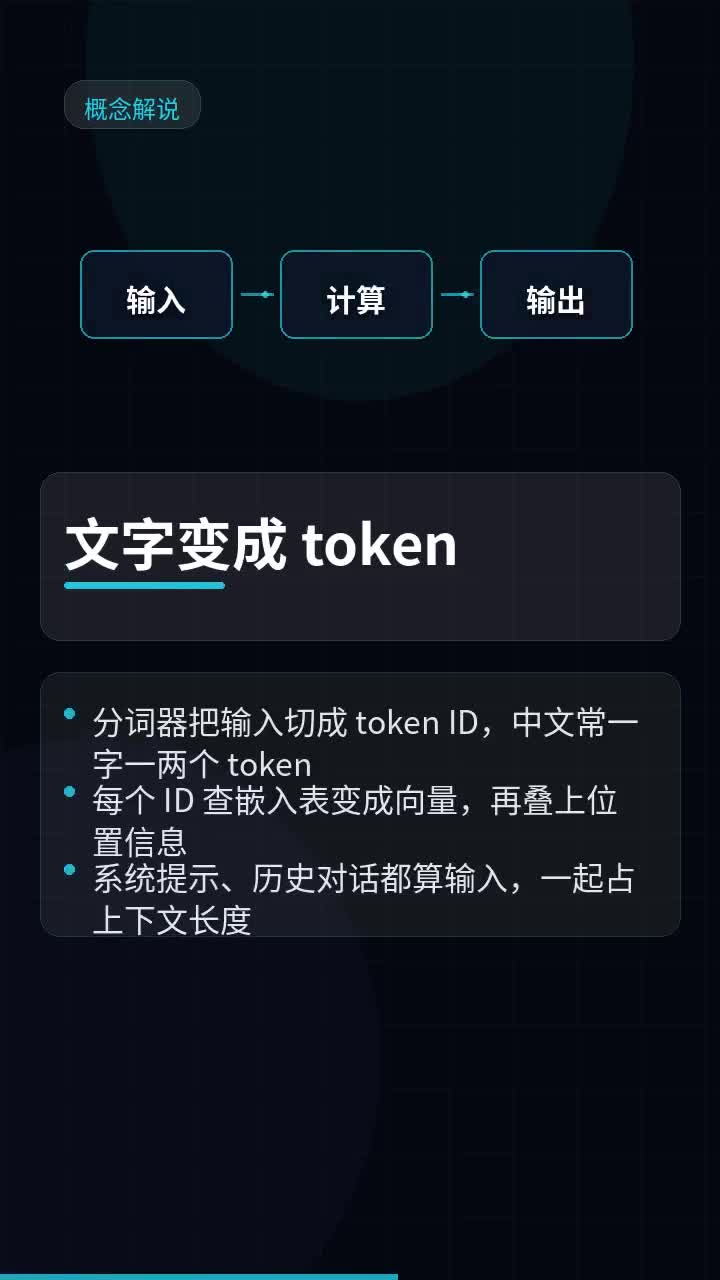
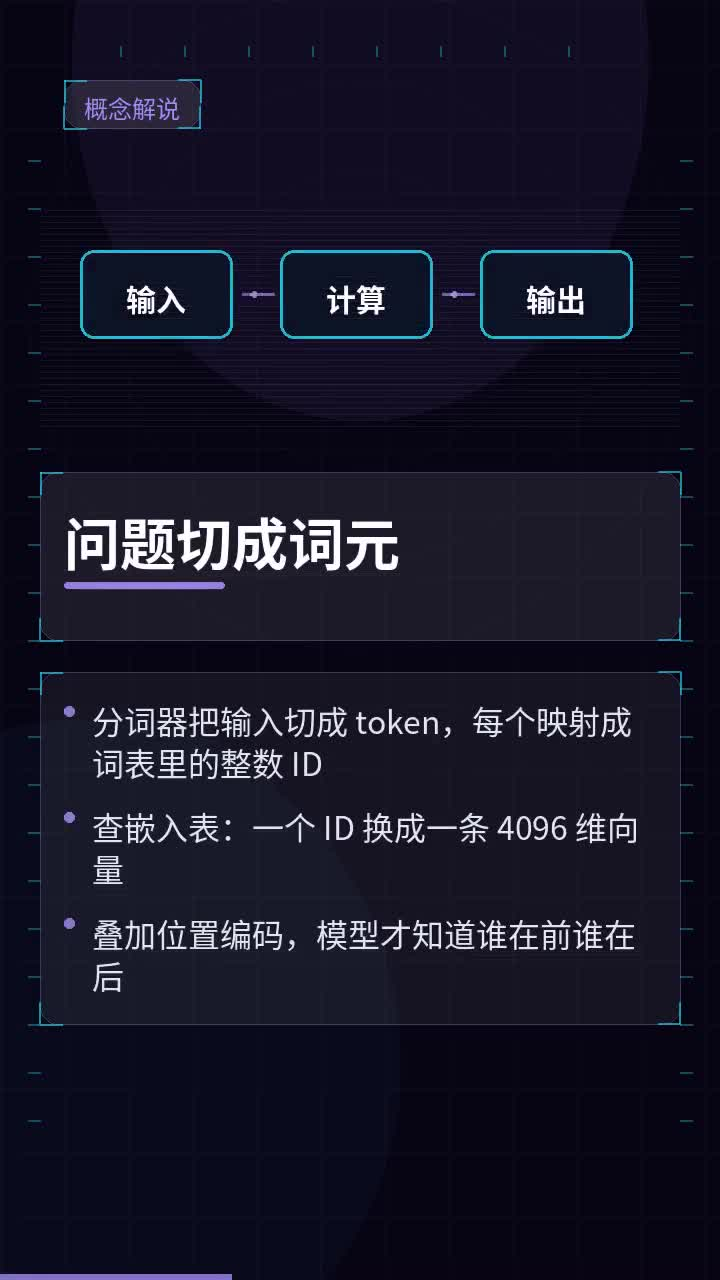
Violet tech palette, HUD frames and self-sizing bullet panels
This is by an automated agent, not a human.

Violet primary with cyan accents, corner brackets, HUD ticks, scanlines
and concentric rings; bullet panels size to wrapped text; TTS retries.

diff --git a/projects/motion-mvp/graph_scene.py b/projects/motion-mvp/graph_scene.py
@@ -16,7 +16,8 @@ MARGIN = 64
 GRID = 8
 FONT_BOLD = '/usr/share/fonts/opentype/noto/NotoSansCJK-Bold.ttc'
 FONT_REG = '/usr/share/fonts/opentype/noto/NotoSansCJK-Regular.ttc'
-ACCENT = (34, 211, 238)
+ACCENT = (167, 139, 250)   # violet
+ACCENT2 = (34, 211, 238)  # cyan
 
 
 def font(path, size):
@@ -32,20 +33,45 @@ def snap(value):
     return int(round(value / GRID) * GRID)
 
 
+def corner_brackets(draw, box, color, alpha=200, size=26, width=2):
+    x0, y0, x1, y1 = box
+    for (cx, cy, dx, dy) in ((x0, y0, 1, 1), (x1, y0, -1, 1), (x0, y1, 1, -1), (x1, y1, -1, -1)):
+        draw.line([(cx, cy), (cx + dx * size, cy)], fill=color + (alpha,), width=width)
+        draw.line([(cx, cy), (cx, cy + dy * size)], fill=color + (alpha,), width=width)
+
+
+def hud_ticks(draw, color, alpha=90):
+    for y in range(160, H - 120, 48):
+        draw.line([(28, y), (40, y)], fill=color + (alpha,), width=2)
+        draw.line([(W - 40, y), (W - 28, y)], fill=color + (alpha,), width=2)
+    for x in range(120, W - 100, 64):
+        draw.line([(x, 46), (x, 56)], fill=color + (alpha,), width=2)
+
+
+def scanlines(draw, top, bottom, alpha=14):
+    for y in range(top, bottom, 6):
+        draw.line([(MARGIN - 24, y), (W - MARGIN + 24, y)], fill=(255, 255, 255, alpha), width=1)
+
+
 def background(draw):
-    draw.rectangle([0, 0, W, H], fill='#05070f')
+    draw.rectangle([0, 0, W, H], fill='#080414')
     for x in range(0, W + GRID, GRID * 8):
         draw.line([(x, 0), (x, H)], fill=(255, 255, 255, 7), width=1)
     for y in range(0, H + GRID, GRID * 8):
         draw.line([(0, y), (W, y)], fill=(255, 255, 255, 7), width=1)
-    draw.ellipse([W * 0.12, -280, W * 0.88, 400], fill=ACCENT + (12,))
-    draw.ellipse([-220, H - 540, 380, H + 100], fill=(99, 102, 241, 10))
+    draw.ellipse([W * 0.10, -300, W * 0.90, 420], fill=ACCENT + (16,))
+    draw.ellipse([-240, H - 560, 400, H + 120], fill=(34, 211, 238, 8))
+    for radius in (150, 240, 330):
+        draw.ellipse([W / 2 - radius, 320 - radius, W / 2 + radius, 320 + radius],
+                     outline=ACCENT + (10,), width=1)
 
 
-def glass_panel(draw, box, alpha=22):
+def glass_panel(draw, box, alpha=22, brackets=True):
     x0, y0, x1, y1 = [snap(v) for v in box]
-    draw.rounded_rectangle([x0, y0, x1, y1], radius=20, fill=(255, 255, 255, alpha))
-    draw.rounded_rectangle([x0, y0, x1, y1], radius=20, outline=ACCENT + (46,), width=1)
+    draw.rounded_rectangle([x0, y0, x1, y1], radius=18, fill=(255, 255, 255, alpha))
+    draw.rounded_rectangle([x0, y0, x1, y1], radius=18, outline=ACCENT + (70,), width=1)
+    if brackets:
+        corner_brackets(draw, (x0, y0, x1, y1), ACCENT2, alpha=170, size=22, width=2)
 
 
 def wrap_text(text, size, max_width, bold=False):
@@ -71,14 +97,14 @@ def draw_brain(draw, cx, cy, scale, alpha):
         x = cx + math.cos(rad) * r * 0.55
         y = cy + math.sin(rad) * r * 0.55
         draw.ellipse([x - r * 0.42, y - r * 0.42, x + r * 0.42, y + r * 0.42],
-                     outline=ACCENT + (a,), width=3)
+                     outline=ACCENT2 + (a,), width=3)
     draw.ellipse([cx - r * 0.3, cy - r * 0.3, cx + r * 0.3, cy + r * 0.3],
-                 fill=ACCENT + (int(40 * alpha),), outline=ACCENT + (a,), width=3)
+                 fill=ACCENT + (int(40 * alpha),), outline=ACCENT2 + (a,), width=3)
     for angle in range(0, 360, 60):
         rad = math.radians(angle + 30)
         draw.line([(cx + math.cos(rad) * r * 0.3, cy + math.sin(rad) * r * 0.3),
                    (cx + math.cos(rad) * r * 0.55, cy + math.sin(rad) * r * 0.55)],
-                  fill=ACCENT + (int(150 * alpha),), width=2)
+                  fill=ACCENT2 + (int(150 * alpha),), width=2)
 
 
 def draw_triangle(draw, cx, cy, scale, alpha, t):
@@ -134,8 +160,8 @@ def draw_flow(draw, top, alpha, t):
     for index, text in enumerate(boxes):
         x = start_x + index * (box_w + gap)
         draw.rounded_rectangle([x, top, x + box_w, top + box_h], radius=14,
-                               fill=(15, 23, 42, int(210 * alpha)),
-                               outline=ACCENT + (int(180 * alpha),), width=2)
+                               fill=(13, 20, 38, int(240 * alpha)),
+                               outline=ACCENT2 + (int(230 * alpha),), width=3)
         f = font(FONT_BOLD, 30)
         draw.text((x + (box_w - f.getlength(text)) / 2, top + 26), text,
                   font=f, fill=(255, 255, 255, int(225 * alpha)))
@@ -164,10 +190,12 @@ def render(out, title, bullets, seconds, accent='#22d3ee', label='概念解说',
         image = Image.new('RGB', (W, H), '#05070f')
         draw = ImageDraw.Draw(image, 'RGBA')
         background(draw)
+        hud_ticks(draw, ACCENT2)
         # header label, grid-aligned
         label_w = small_font.getlength(label) + 40
         glass_panel(draw, (MARGIN, 80, MARGIN + label_w, 128), alpha=26)
         draw.text((MARGIN + 20, 90), label, font=small_font, fill=ACCENT + (220,))
+        scanlines(draw, 210, 430)
         # figure area
         figure_alpha = ease((t - 0.1) / 0.7)
         fig_cy = 300
@@ -194,22 +222,26 @@ def render(out, title, bullets, seconds, accent='#22d3ee', label='概念解说',
         underline_y = panel_top + 30 + len(title_lines) * 70 + 12
         draw.rounded_rectangle([MARGIN, underline_y, MARGIN + int(160 * grow), underline_y + 6],
                                radius=3, fill=ACCENT + (230,))
-        # bullets panel
+        # bullets panel sized to the wrapped text
+        layout = [(wrap_text(bullet, 32, W - MARGIN * 2 - 40)[:3], bullet)
+                  for bullet in bullets[:3]]
         bullets_top = panel_top + panel_h + 32
-        bullets_h = 24 + min(3, len(bullets)) * 78
+        bullets_h = 28 + sum(len(lines) * 42 + 22 for lines, _ in layout)
         glass_panel(draw, (MARGIN - 24, bullets_top, W - MARGIN + 24, bullets_top + bullets_h),
                     alpha=16)
-        for bullet_index, bullet in enumerate(bullets[:3]):
+        y = bullets_top + 20
+        for bullet_index, (lines, _) in enumerate(layout):
             start = 0.9 + bullet_index * 0.6
             alpha = ease((t - start) / 0.5)
-            if alpha <= 0:
-                continue
-            y = bullets_top + 20 + bullet_index * 78 + (1 - alpha) * 16
-            draw.ellipse([MARGIN, y + 12, MARGIN + 10, y + 22], fill=ACCENT + (int(220 * alpha),))
-            lines = wrap_text(bullet, 32, W - MARGIN * 2 - 40)
-            for line_index, line in enumerate(lines[:2]):
-                draw.text((MARGIN + 28, y + line_index * 42), line, font=bullet_font,
-                          fill=(226, 232, 240, int(225 * alpha)))
+            block_h = len(lines) * 42 + 22
+            if alpha > 0:
+                off = (1 - alpha) * 16
+                draw.ellipse([MARGIN, y + 10 + off, MARGIN + 10, y + 20 + off],
+                             fill=ACCENT + (int(220 * alpha),))
+                for line_index, line in enumerate(lines):
+                    draw.text((MARGIN + 28, y + off + line_index * 42), line,
+                              font=bullet_font, fill=(226, 232, 240, int(225 * alpha)))
+            y += block_h
         # progress
         progress = min(1.0, t / seconds)
         draw.rectangle([0, H - 6, int(W * progress), H], fill=ACCENT + (200,))

diff --git a/projects/motion-mvp/pipeline.py b/projects/motion-mvp/pipeline.py
@@ -107,8 +107,17 @@ def fetch_image(prompt, path):
 
 
 def tts(text, path):
-    subprocess.run(['edge-tts', '--voice', 'zh-CN-XiaoxiaoNeural', '--text', text,
-                    '--write-media', str(path)], check=True, timeout=180)
+    import time
+    last = None
+    for attempt in range(4):
+        result = subprocess.run(['edge-tts', '--voice', 'zh-CN-XiaoxiaoNeural',
+                                 '--text', text, '--write-media', str(path)],
+                                capture_output=True, text=True, timeout=180)
+        if result.returncode == 0 and path.exists() and path.stat().st_size > 1000:
+            return
+        last = result.stderr or result.stdout
+        time.sleep(2 + attempt * 3)
+    raise SystemExit('tts failed: ' + (last or '')[-300:])
 
 
 def duration_of_text(text):
@@ -209,8 +218,9 @@ def build(brief, name='demo', count=5, theme='promo', style='photo'):
         clip_dur = max(2.6, duration(audio_path) + 0.6)
         if style == 'graphic':
             import graph_scene
+            bullets = scene.get('bullets') or [scene.get('text', '')[:24]]
             graph_scene.render(str(clip_path), scene.get('title', ''),
-                               scene.get('bullets', []), clip_dur,
+                               bullets, clip_dur,
                                label='概念解说', kind='flow' if index == count - 1 else 'list',
                                figure=scene.get('figure', 'chip'))
         else:
